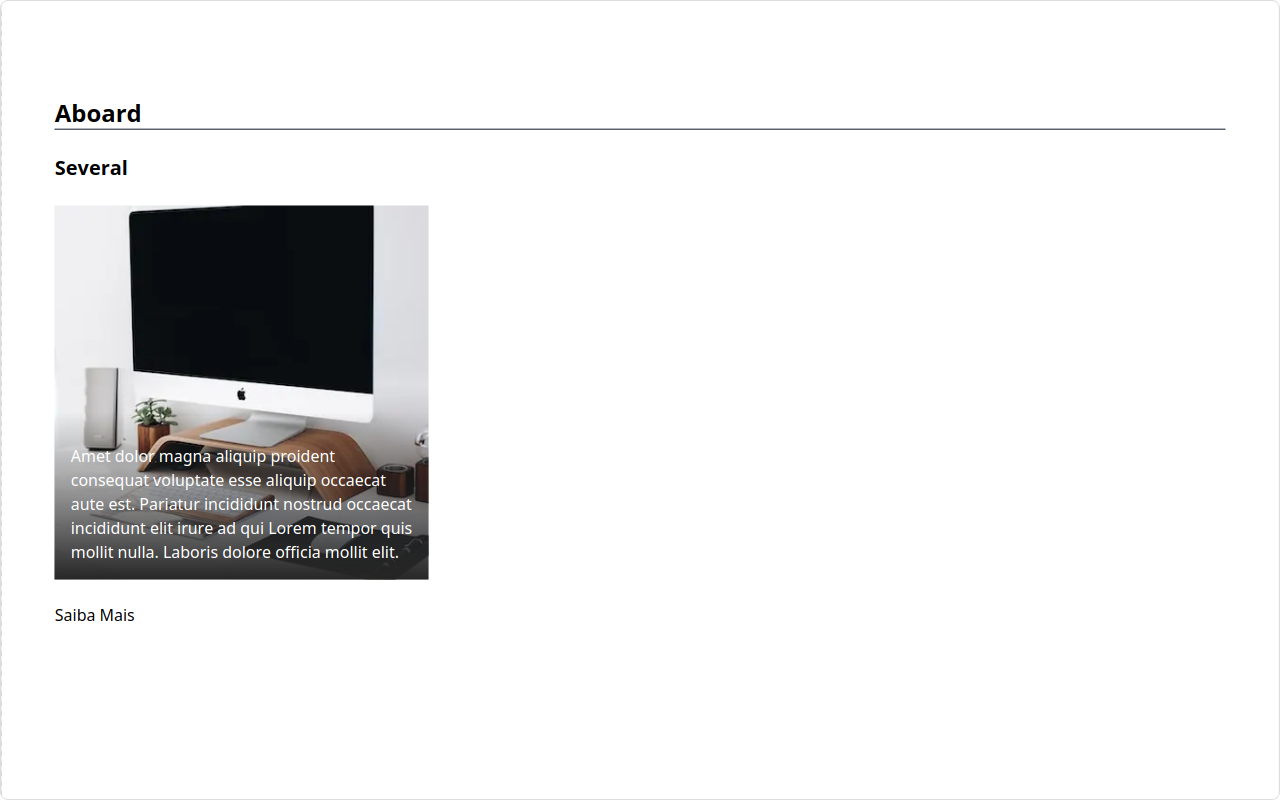
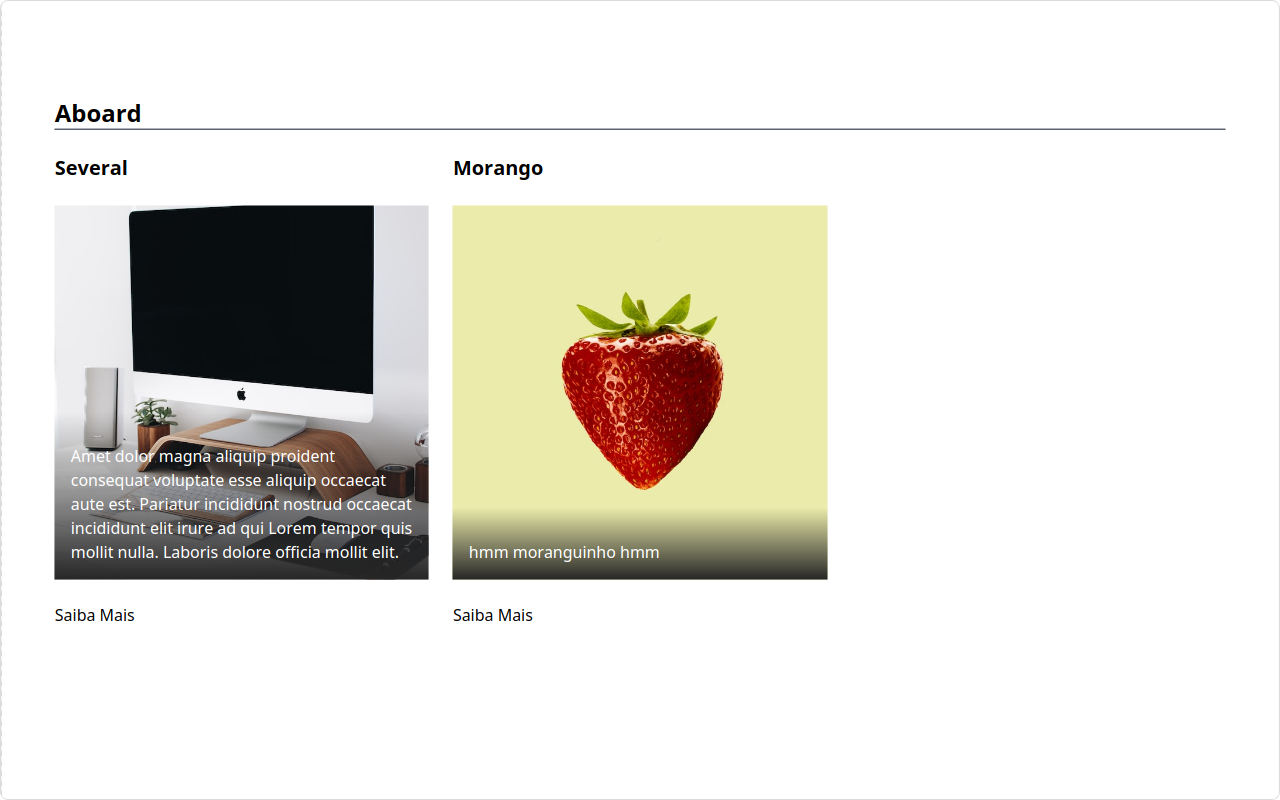
refactor: use content relationship

Changed region(s): [[0.3438, 0.25, 0.6562, 0.7812], [0.3438, 0.1875, 0.4375, 0.2188]]

diff --git a/src/slices/ProjectCards/index.tsx b/src/slices/ProjectCards/index.tsx
@@ -1,7 +1,21 @@
 import type { Content } from '@prismicio/client'
+import { isFilled } from '@prismicio/helpers'
 import { PrismicNextImage } from '@prismicio/next'
 import type { SliceComponentProps } from '@prismicio/react'
 import { PrismicLink, PrismicRichText } from '@prismicio/react'
+
+type ProjectData = Pick<
+  Content.ProjectPageDocument['data'],
+  'projectBanner' | 'projectName' | 'projectDescription'
+>
+
+function isProjectData(data: unknown): data is ProjectData {
+  return !!(
+    (data as ProjectData).projectName &&
+    (data as ProjectData).projectBanner &&
+    (data as ProjectData).projectDescription
+  )
+}
 
 export default function ProjectCards({
   slice
@@ -12,23 +26,28 @@ export default function ProjectCards({
         <PrismicRichText field={slice.primary.title} />
       </div>
       <div className="grid grid-cols-3 gap-6">
-        {slice.items.map((item, index) => (
-          <div
-            // eslint-disable-next-line react/no-array-index-key
-            key={index}
-            className="flex flex-col justify-between gap-6">
-            <PrismicRichText field={item.projectTitle} />
-            <div className="relative">
-              <PrismicNextImage field={item.projectImage} />
+        {slice.items.map((item, index) =>
+          isFilled.contentRelationship(item.project) &&
+          isProjectData(item.project.data) ? (
+            <div
+              // eslint-disable-next-line react/no-array-index-key
+              key={index}
+              className="flex flex-col justify-between gap-6">
+              <PrismicRichText field={item.project.data.projectName} />
               <div className="relative">
-                <div className="absolute bottom-full w-full bg-gradient-to-t from-neutral-800 px-4 pb-4 pt-8 text-white">
-                  <PrismicRichText field={item.projectDescription} />
+                <PrismicNextImage field={item.project.data.projectBanner} />
+                <div className="relative">
+                  <div className="absolute bottom-full w-full bg-gradient-to-t from-neutral-800 px-4 pb-4 pt-8 text-white">
+                    <PrismicRichText
+                      field={item.project.data.projectDescription}
+                    />
+                  </div>
                 </div>
               </div>
+              <PrismicLink href={item.project.url}>Saiba Mais</PrismicLink>
             </div>
-            <PrismicLink field={item.projectLink}>Saiba Mais</PrismicLink>
-          </div>
-        ))}
+          ) : null
+        )}
       </div>
     </section>
   )

diff --git a/.slicemachine/prismicio.d.ts b/.slicemachine/prismicio.d.ts
@@ -93,6 +93,17 @@ interface ProjectPageDocumentData {
      */
     projectBanner: prismicT.ImageField<never>;
     /**
+     * Descrição do projeto field in *Página de projeto*
+     *
+     * - **Field Type**: Rich Text
+     * - **Placeholder**: *None*
+     * - **API ID Path**: projectPage.projectDescription
+     * - **Tab**: Main
+     * - **Documentation**: https://prismic.io/docs/core-concepts/rich-text-title
+     *
+     */
+    projectDescription: prismicT.RichTextField;
+    /**
      * Slice Zone field in *Página de projeto*
      *
      * - **Field Type**: Slice Zone
@@ -201,45 +212,15 @@ interface ProjectCardSliceDefaultPrimary {
  */
 export interface ProjectCardSliceDefaultItem {
     /**
-     * Título do Projeto field in *ProjectCards → Items*
+     * Project field in *ProjectCards → Items*
      *
-     * - **Field Type**: Title
+     * - **Field Type**: Content Relationship
      * - **Placeholder**: *None*
-     * - **API ID Path**: project_card.items[].projectTitle
-     * - **Documentation**: https://prismic.io/docs/core-concepts/rich-text-title
-     *
-     */
-    projectTitle: prismicT.TitleField;
-    /**
-     * Imagem do projeto field in *ProjectCards → Items*
-     *
-     * - **Field Type**: Image
-     * - **Placeholder**: *None*
-     * - **API ID Path**: project_card.items[].projectImage
-     * - **Documentation**: https://prismic.io/docs/core-concepts/image
-     *
-     */
-    projectImage: prismicT.ImageField<never>;
-    /**
-     * Descrição do projeto field in *ProjectCards → Items*
-     *
-     * - **Field Type**: Rich Text
-     * - **Placeholder**: *None*
-     * - **API ID Path**: project_card.items[].projectDescription
-     * - **Documentation**: https://prismic.io/docs/core-concepts/rich-text-title
-     *
-     */
-    projectDescription: prismicT.RichTextField;
-    /**
-     * Link para o projeto field in *ProjectCards → Items*
-     *
-     * - **Field Type**: Link
-     * - **Placeholder**: *None*
-     * - **API ID Path**: project_card.items[].projectLink
+     * - **API ID Path**: project_card.items[].project
      * - **Documentation**: https://prismic.io/docs/core-concepts/link-content-relationship
      *
      */
-    projectLink: prismicT.LinkField;
+    project: prismicT.RelationField<"projectPage">;
 }
 /**
  * Default variation for ProjectCards Slice

diff --git a/.slicemachine/assets/src/slices/ProjectCards/index.stories.js b/.slicemachine/assets/src/slices/ProjectCards/index.stories.js
@@ -5,5 +5,5 @@ export default {
 }
 
 
-export const _Default = () => <MyComponent slice={{"variation":"default","version":"sktwi1xtmkfgx8626","items":[{"projectTitle":[{"type":"heading4","text":"Several","spans":[]}],"projectImage":{"dimensions":{"width":400,"height":400},"alt":null,"copyright":null,"url":"https://images.unsplash.com/photo-1494173853739-c21f58b16055?rect=0%2C408%2C3277%2C3277&w=400&h=400"},"projectDescription":[{"type":"paragraph","text":"Amet dolor magna aliquip proident consequat voluptate esse aliquip occaecat aute est. Pariatur incididunt nostrud occaecat incididunt elit irure ad qui Lorem tempor quis mollit nulla. Laboris dolore officia mollit elit.","spans":[]}],"projectLink":{"link_type":"Web","url":"http://twitter.com"}}],"primary":{"title":[{"type":"heading3","text":"Aboard","spans":[]}]},"id":"_Default","slice_type":"project_card"}} />
+export const _Default = () => <MyComponent slice={{"variation":"default","version":"sktwi1xtmkfgx8626","items":[{"project":{"id":"mock_document_id","link_type":"Document","type":"projectPage","tags":[],"lang":"en-us","slug":null,"first_publication_date":"1970-01-01T00:00:01+0000","last_publication_date":"1970-01-01T01:00:00+0000"}},{"project":{"id":"mock_document_id","link_type":"Document","type":"projectPage","tags":[],"lang":"en-us","slug":null,"first_publication_date":"1970-01-01T00:00:01+0000","last_publication_date":"1970-01-01T01:00:00+0000"}}],"primary":{"title":[{"type":"heading3","text":"Aboard","spans":[]}]},"id":"_Default","slice_type":"project_card"}} />
 _Default.storyName = ''

diff --git a/src/pages/index.tsx b/src/pages/index.tsx
@@ -30,7 +30,13 @@ export const getServerSideProps: GetServerSideProps<{
 }> = async () => {
   const client = createClient()
 
-  const homeData = await client.getSingle('home')
+  const homeData = await client.getSingle('home', {
+    fetchLinks: [
+      'projectPage.projectName',
+      'projectPage.projectBanner',
+      'projectPage.projectDescription'
+    ]
+  })
 
   return {
     props: {
